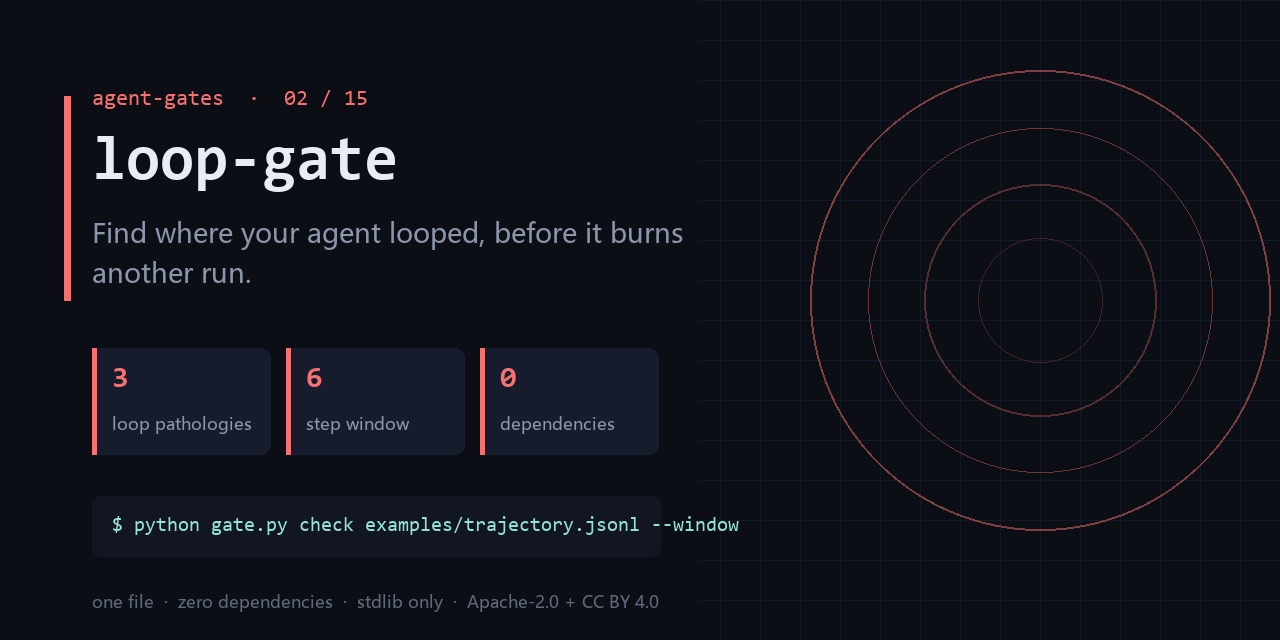
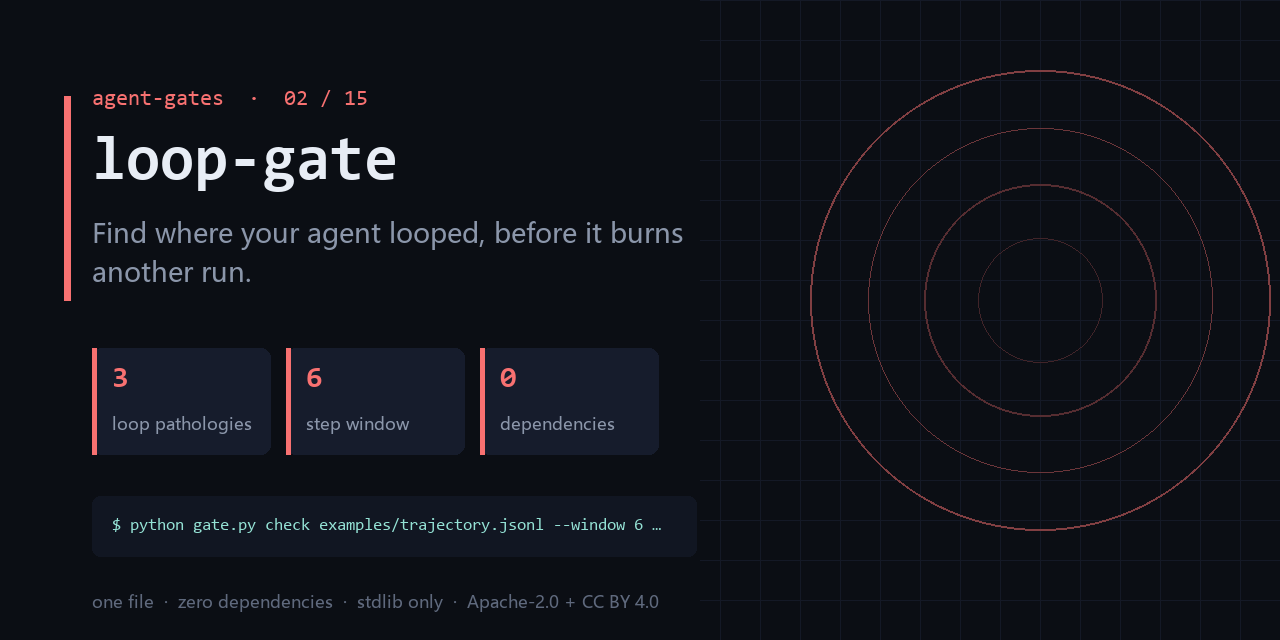
docs: add the series entry map, the hot-ready guarantee, and an honest surface line
Three changes, all of them about not overselling:

1. `## Start here` — fifteen links is a maze, one symptom is a door. A six-row
   symptom -> gate table, so the reader installs the gate they need instead of
   installing nothing (or all fifteen). Also states the star rule plainly:
   no exchange, no unlock, star trading is against GitHub's rules.
2. `## Hot-ready guarantee` — replaces "guaranteed to trend" with fifteen
   machine-checked structural properties, current score, and the script that
   recomputes them. GitHub never published its Trending ranking, so a promise
   about ranking cannot be true; a promise about structure can be verified.
3. The subtitle said `one file` on every repo. It was false on four of them
   (output-gate has 7 python files, complexity-ceiling 3, deadcode-gate and
   trail-gate 2). The line is now computed from the actual file count, and the
   same number is used on the social card. A false claim on the first screen
   costs more trust than it buys attention.

Changed region(s): [[0.0938, 0.8125, 0.5938, 0.8438], [0.0625, 0.4062, 0.1562, 0.4375]]

diff --git a/README.md b/README.md
@@ -104,6 +104,66 @@ mistaken for "it inspected my files".
 
 边界：It does not intercept live calls — it reads what already happened.
 
+### 互推：只装一个的话，装哪个
+
+十五个链接是迷宫，一个症状是门。按上表挑一个，其余九个在下面 [The gates](#the-gates)。
+每个仓都能单独活：复制 `gate.py`，一条命令跑完，不共享运行时、不装包、不加配置。
+有星就给这一个，没有也不影响任何仓的可用性——没有任何门是「先给星才能用」。
+
+### 热门前置：保证结构，不保证排名
+
+本页承诺的是 **15 项可机器复核的结构特征**，当前 **15/15**（2026-10-20 复核）。
+GitHub 从未公开 Trending 的排序算法，所以任何「保证上热门」的说法都在描述一件它不可能知道的事；
+本仓不这么说。跑 `python hotness.py` 可自行复算每一条。
+
+## Start here (if you install only one)
+
+Fifteen links is a maze; one symptom is a door. Find your symptom, install that gate,
+ignore the rest until it hurts.
+
+| what you are seeing | install this |
+|---|---|
+| the bill is 10x normal and the trace is a wall of the same step | **loop-gate** ← you are here |
+| the agent can delete prod and nobody signed off on that | **[permission-gate](https://github.com/chenhz01/permission-gate)** |
+| answers get worse after truncation and nobody knows what got dropped | **[context-gate](https://github.com/chenhz01/context-gate)** |
+| two rules in the prompt contradict each other; the model obeys neither | **[instruction-gate](https://github.com/chenhz01/instruction-gate)** |
+| AI text ships with fabricated links and empty phrases | **[output-gate](https://github.com/chenhz01/output-gate)** |
+| half the repo might be dead and nobody can prove which half | **[deadcode-gate](https://github.com/chenhz01/deadcode-gate)** |
+
+A gate you did not need is a gate you uninstall, so nothing here says "install all
+fifteen". Each repo stands alone: copy `gate.py`, run one command, no shared runtime,
+no package manager, no config file to grow.
+
+**On stars.** If this one saved you an incident, star it — that is the only signal I get
+about which gate to build next. There is no exchange: starring one repo does not owe me
+a star on another, and no gate here is unlocked by a star. Star trading breaks GitHub's
+rules and would poison the single honest metric this project has.
+
+## Hot-ready guarantee
+
+What is guaranteed is **structure**, not ranking. Fifteen properties, each one
+machine-checked against this repo — current score **15/15** (2026-10-20).
+
+Plain version: instead of asking you to trust a badge, I list what I actually checked,
+name the script that checks it, and let you re-run it. If one of these lines is false,
+that is a bug in my repo, not a matter of taste.
+
+- Falsifiable side: `python hotness.py` re-runs every check and prints the evidence line
+  for each one. You do not have to trust this paragraph.
+- Non-falsifiable side: GitHub has never published how Trending sorts repositories, so
+  any repo promising you a guaranteed spot is telling you something it cannot know.
+  This one does not make that promise.
+- If a claim on this page stops being true, that is a bug: open an issue and it gets
+  fixed in the same week, not in the next launch.
+
+What actually carries this repo:
+
+- the command in this README is byte-for-byte the command CI runs <sub>(71-char argv, exact match)</sub>
+- the output block is a real run of `examples/`, not a mock-up <sub>(Real output section)</sub>
+- CI asserts the exit code, so the badge can turn red — and it has <sub>(asserts exit=1)</sub>
+- every fixture is committed, so a fresh clone reproduces the output <sub>(1 file under examples/ tracked in git)</sub>
+- `* -text` in `.gitattributes`: same bytes on Windows and Linux <sub>(.gitattributes * -text)</sub>
+
 ## The gates
 
 | # | gate | what it stops |
